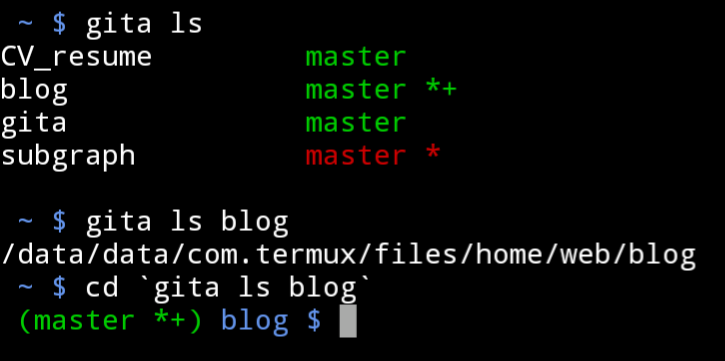
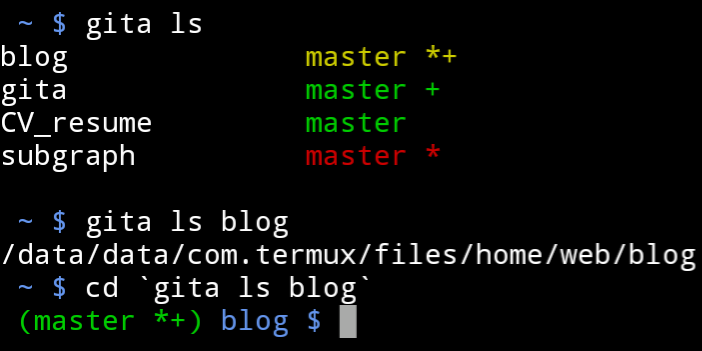
update README

diff --git a/README.md b/README.md
@@ -12,6 +12,11 @@ Here the color coding has the following meaning:
 * green: the local branch is the same as the remote branch.
 * yellow: the local branch is ahead of the remote branch.
 
+And the extra symbols have the following meaning:
+
+* `+`: staged change exists
+* `*`: unstaged change exists
+
 The supported commands are
 
 * `gita add <repo-path>`: add repo path
